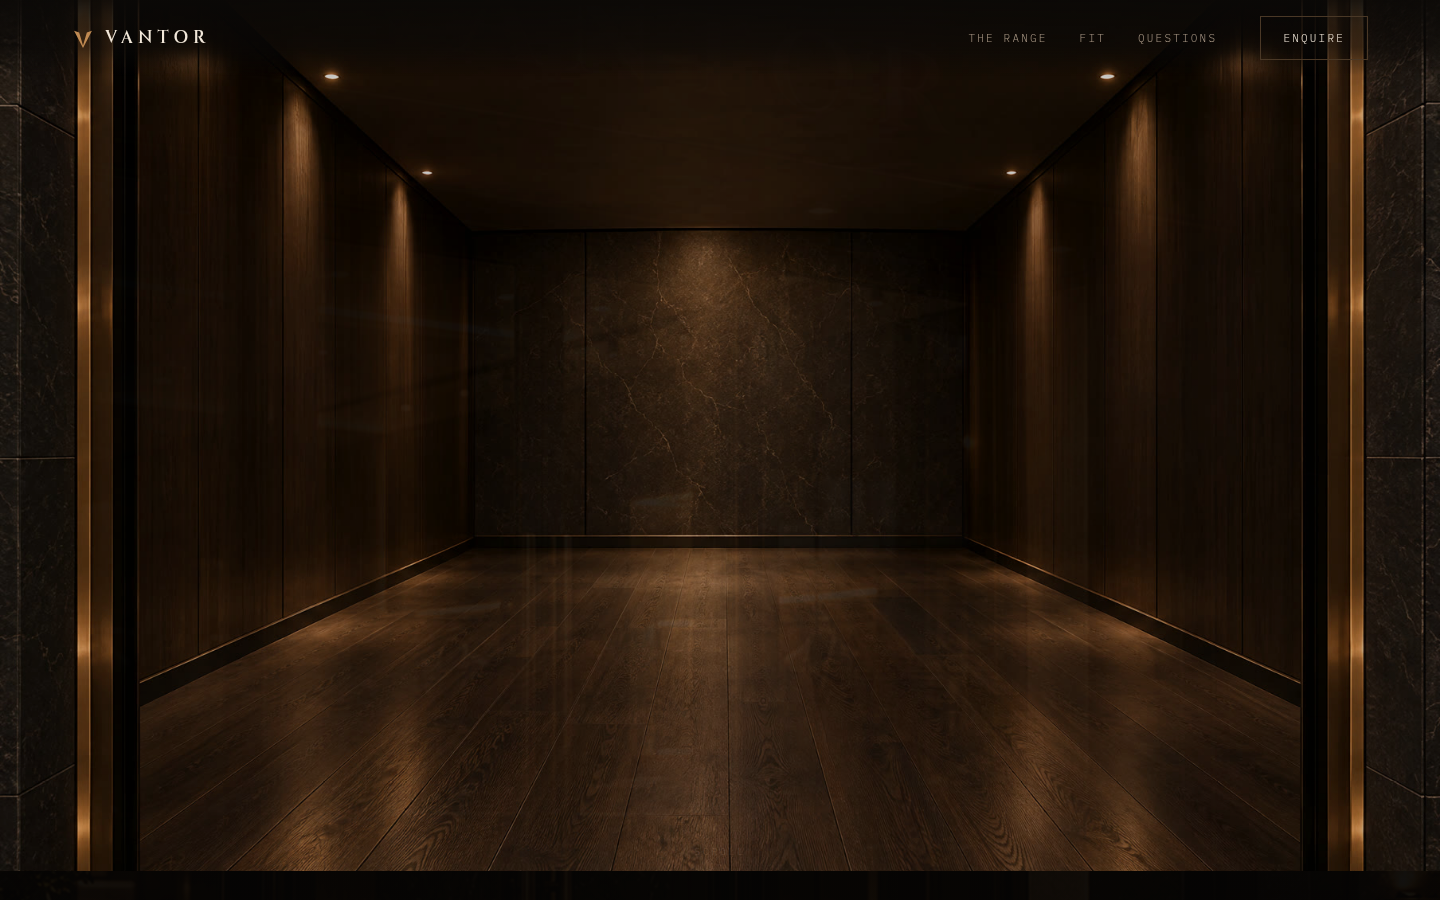
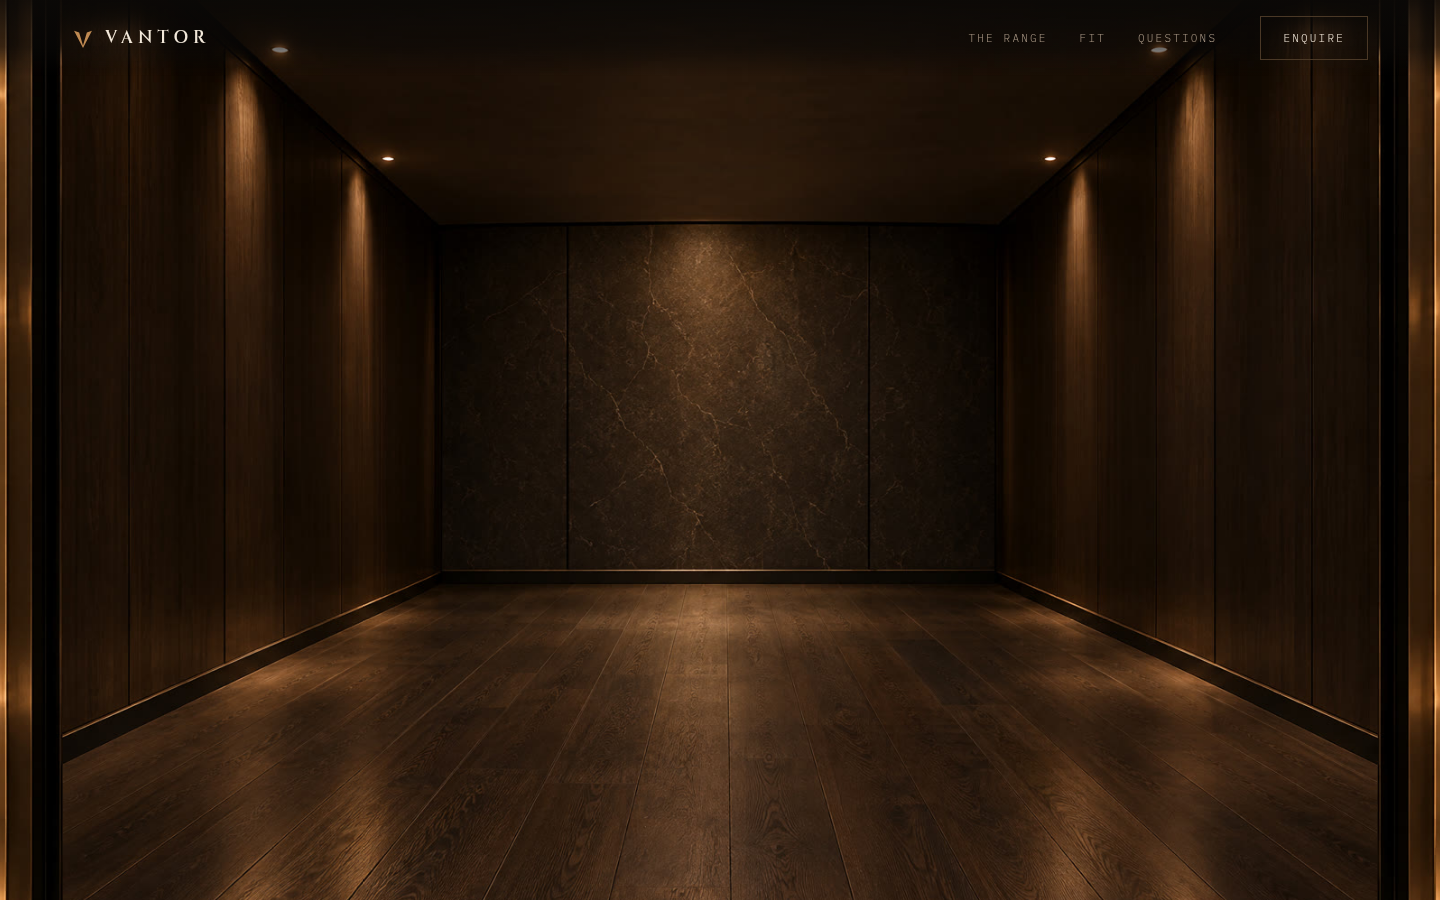
Fix the invisible mobile section, hang the jackets singly, drop the room harder
THE MOBILE BUG. The whole range section rendered blank on a phone, which is
what the owner was seeing. IntersectionObserver threshold is a fraction of the
ELEMENT, not of the viewport, so a section taller than roughly seven screens can
never satisfy a 0.14 threshold: the range grid is 6165px on a 844px phone, where
14 percent is 863px, taller than the screen itself. The observer never fired, .in
was never added, and every card sat at opacity 0 forever. It now triggers on any
intersection with a bottom margin, so it still fires as the section arrives.
This would have hit any long section on any small screen.

THE JACKETS, one at a time. A sideways wipe across the finished photograph
revealed them in a block. Each jacket now has its own layer, clipped to its own
place on the rail, whose bottom edge drops from the rail downward so the garment
is lowered onto it. Eleven of them, hung from the far end of both rails forward,
alternating sides, which is the order a person would actually work in. The
positions were measured rather than guessed, by differencing the empty room
against the finished one: each rail runs 13.4 to 34.5 percent of the width on
the left and 65.5 to 86.8 on the right, in two rows between 19 and 63 percent of
the height. Every layer is the same image file, so it decodes once and lines up
exactly with the room underneath.

THE ROOM, harder. It now falls from well above the frame at a larger scale, and
[…]

diff --git a/site/index.html b/site/index.html
@@ -246,8 +246,17 @@ a{color:inherit}
 /* 3: the lights come up, which is a change across the whole frame, so it fades */
 .stageimg[data-stage="3"]{opacity:var(--o,0)}
 
-/* 4: the jackets go up one after another, from the far end of each rail forward */
-.stageimg[data-stage="4"]{opacity:1;clip-path:inset(0 var(--x,50%) 0 var(--x,50%))}
+/* 4: the jackets, hung one at a time.
+   Each is the finished photograph clipped to that one jacket's place on the
+   rail, and its bottom edge drops from the rail downward, so the garment is
+   lowered onto the rail rather than fading in. They are all the same image
+   file, so the browser decodes it once and every one lines up exactly with the
+   empty room underneath. */
+.hangers{position:absolute;inset:0;pointer-events:none}
+.hangers b{position:absolute;inset:0;display:block;
+  background:url('assets/room/5-full.jpg') center/cover no-repeat;
+  clip-path:inset(var(--t) var(--r) var(--b) var(--l));
+  will-change:clip-path}
 
 /* ============================================================
    THE DETAIL VIEW
@@ -512,7 +521,7 @@ body.paused *,body.paused *::before,body.paused *::after{animation-play-state:pa
       <div class="stageimg" data-stage="1" style="background-image:url('assets/room/2-posts.jpg')"></div>
       <div class="stageimg" data-stage="2" style="background-image:url('assets/room/3-rails.jpg')"></div>
       <div class="stageimg" data-stage="3" style="background-image:url('assets/room/4-fitted.jpg')"></div>
-      <div class="stageimg" data-stage="4" style="background-image:url('assets/room/5-full.jpg')"></div>
+      <div class="hangers" id="hangers"></div>
     </div>
 
     <div class="scrim" aria-hidden="true"></div>
@@ -840,10 +849,66 @@ var STAGE_BUILD = [
   null,                 /* 0 the room itself */
   [0.26, 0.46],         /* 1 brass grows up */
   [0.46, 0.60],         /* 2 rails span out */
-  [0.60, 0.74],         /* 3 lights come up */
-  [0.76, 0.96]          /* 4 jackets go up one by one */
+  [0.60, 0.72],         /* 3 lights come up */
+  null                  /* 4 replaced by the hangers below */
 ];
-var lastR = [];
+
+/* Where each jacket hangs, measured by differencing the empty room against the
+   finished one: each rail runs 13.4 to 34.5 percent of the width on the left and
+   65.5 to 86.8 on the right, in two rows between 19 and 63 percent of the height.
+   They are hung from the far end of both rails forward, alternating sides, which
+   is the order a person would actually work in. */
+var JACKETS = (function(){
+  var L = [13.4, 34.5], R = [65.5, 86.8], ROW = [[19.0, 41.0], [41.0, 63.0]];
+  function col(side, i){                    /* i: 0 nearest camera, 2 furthest */
+    var w = (side[1]-side[0]) / 3;
+    return [side[0] + i*w, side[0] + (i+1)*w];
+  }
+  var order = [
+    [L,2,0],[R,0,0],[L,2,1],[R,0,1],
+    [L,1,0],[R,1,0],[L,1,1],[R,1,1],
+    [L,0,0],[R,2,0],[L,0,1]
+  ];
+  return order.map(function(o){
+    var side = o[0], ci = o[1], ri = o[2];
+    /* the right rail runs the other way, so its far end is its low index */
+    var c = col(side, side === L ? ci : ci);
+    return { l:c[0], r:100-c[1], t:ROW[ri][0], b:100-ROW[ri][1] };
+  });
+})();
+
+var hangEls = [];
+function buildHangers(){
+  if(hangEls.length) return;
+  $('#hangers').innerHTML = JACKETS.map(function(){ return '<b></b>'; }).join('');
+  hangEls = $$('#hangers b');
+  for(var i=0;i<hangEls.length;i++){
+    var j = JACKETS[i], e = hangEls[i];
+    e.style.setProperty('--l', j.l.toFixed(2)+'%');
+    e.style.setProperty('--r', j.r.toFixed(2)+'%');
+    e.style.setProperty('--t', j.t.toFixed(2)+'%');
+    e.style.setProperty('--b', '100%');     /* closed: nothing showing */
+  }
+}
+
+var HANG_FROM = 0.74, HANG_TO = 0.99;
+var lastB = [];
+function drawHangers(p){
+  var n = hangEls.length;
+  for(var i=0;i<n;i++){
+    /* each jacket owns its own slice of the beat, with a little overlap so the
+       run reads as continuous rather than as eleven separate events */
+    var span = (HANG_TO - HANG_FROM) / n;
+    var a0 = HANG_FROM + i*span;
+    var k = smoothstep(p, a0, a0 + span*1.6);
+    var j = JACKETS[i];
+    var bottom = 100 - (j.t + (100 - j.b - j.t) * k);
+    var v = bottom.toFixed(2) + '%';
+    if(lastB[i] !== v){ lastB[i] = v; hangEls[i].style.setProperty('--b', v); }
+  }
+}
+
+var lastR = [];var lastR = [];
 
 /* How far open a sideways wipe is, as the inset from each edge.
    In this one point perspective the centre of the frame is the far END WALL,
@@ -859,6 +924,7 @@ function wipeInset(r){
 function drawRoom(p){
   for(var i=1;i<stageEls.length;i++){
     var w = STAGE_BUILD[i];
+    if(!w) continue;
     var r = smoothstep(p, w[0], w[1]);
     var el = stageEls[i], v;
     if(i === 1){                       /* grows upward out of the floor */
@@ -876,16 +942,23 @@ function drawRoom(p){
 
 function drawJourney(p){
   /* ACT 1, the street, pushed toward the door */
-  var t1 = clamp(p/0.26, 0, 1);
+  var t1 = clamp(p/0.20, 0, 1);
   put(streetImg,'transform','scale('+(1+t1*0.62).toFixed(4)+')','si');
-  put(street,'opacity',(1 - smoothstep(p,0.16,0.26)).toFixed(3),'so');
+  put(street,'opacity',(1 - smoothstep(p,0.10,0.19)).toFixed(3),'so');
   put(streetVeil,'opacity',(0.3+t1*0.7).toFixed(3),'sv');
 
-  /* ACT 2, the room drops into place, then builds itself */
-  var drop = smoothstep(p, 0.12, 0.26);
-  put(room,'opacity',drop.toFixed(3),'ro');
-  put(room,'transform','translateY(' + ((1-drop) * -16).toFixed(2) + '%)','rt');
+  /* ACT 2, the room slams down into place, then builds itself.
+     It falls from well above the frame at a larger scale, so it reads as the
+     room arriving around you rather than a panel sliding in. The scale settles
+     a beat after the fall lands, which is what gives it the weight. */
+  var fall   = smoothstep(p, 0.10, 0.23);
+  var settle = smoothstep(p, 0.18, 0.30);
+  put(room,'opacity',smoothstep(p,0.10,0.17).toFixed(3),'ro');
+  put(room,'transform',
+    'translateY(' + ((1-fall) * -62).toFixed(2) + '%) ' +
+    'scale(' + (1 + (1-settle) * 0.18).toFixed(4) + ')', 'rt');
   drawRoom(p);
+  drawHangers(p);
 
   var cueEl = $('#cue');
   if(cueEl) put(cueEl,'opacity',(1 - smoothstep(p,0.72,0.84)).toFixed(3),'cue');
@@ -942,6 +1015,7 @@ if('IntersectionObserver' in window){
 var heroInit = false;
 function initHeroOnce(){
   if(heroInit) return; heroInit = true;
+  buildHangers();
   loadStart = performance.now();
   /* the later stages are the heaviest, so warm them before the visitor arrives */
   ['assets/room/2-posts.jpg','assets/room/3-rails.jpg',
@@ -956,7 +1030,7 @@ function enableScrub(){
   window.addEventListener('scroll', onScroll, { passive:true });
   bands.forEach(function(b2){ b2.op = -1; b2.k = -1; });
   lastVal = {};
-  lastR = [];
+  lastR = []; lastB = [];
   unpinFinalStates();
   updateCaptions(heroProgress());
   onScroll();
@@ -991,7 +1065,14 @@ if('IntersectionObserver' in window){
          siblings do not carry their delay into every hover for ever */
       setTimeout(function(){ el.classList.add('done'); }, 1400);
     });
-  },{ threshold:0.14, rootMargin:'0px 0px -8% 0px' });
+  },{
+    /* Threshold is a fraction of the ELEMENT, not of the viewport, so a tall
+       section can never satisfy it: the range grid is over 6000px on a phone,
+       where 14 percent is taller than the screen, so it never fired and every
+       card stayed at opacity 0. An entire section of the site was invisible on
+       mobile. Trigger on any intersection instead, pulled in from the bottom so
+       it still fires as the section arrives rather than the instant it peeks. */
+    threshold: 0, rootMargin: '0px 0px -12% 0px' });
   $$('section').forEach(function(s){ io.observe(s); });
 } else {
   $$('section').forEach(function(s){ s.classList.add('in','done'); });
